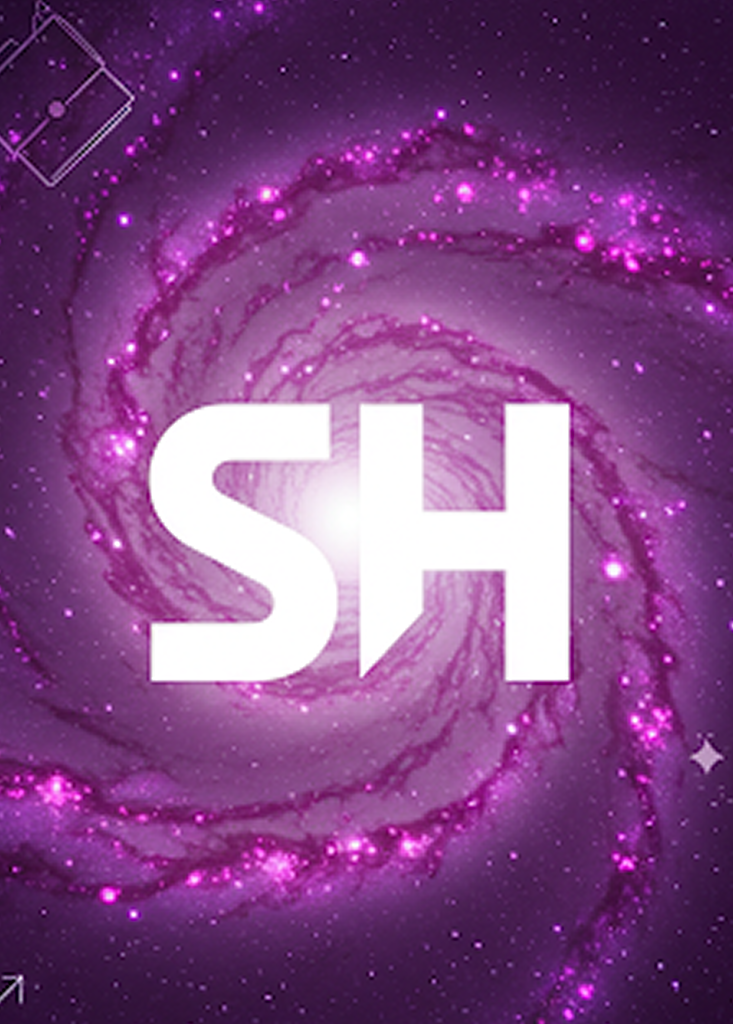
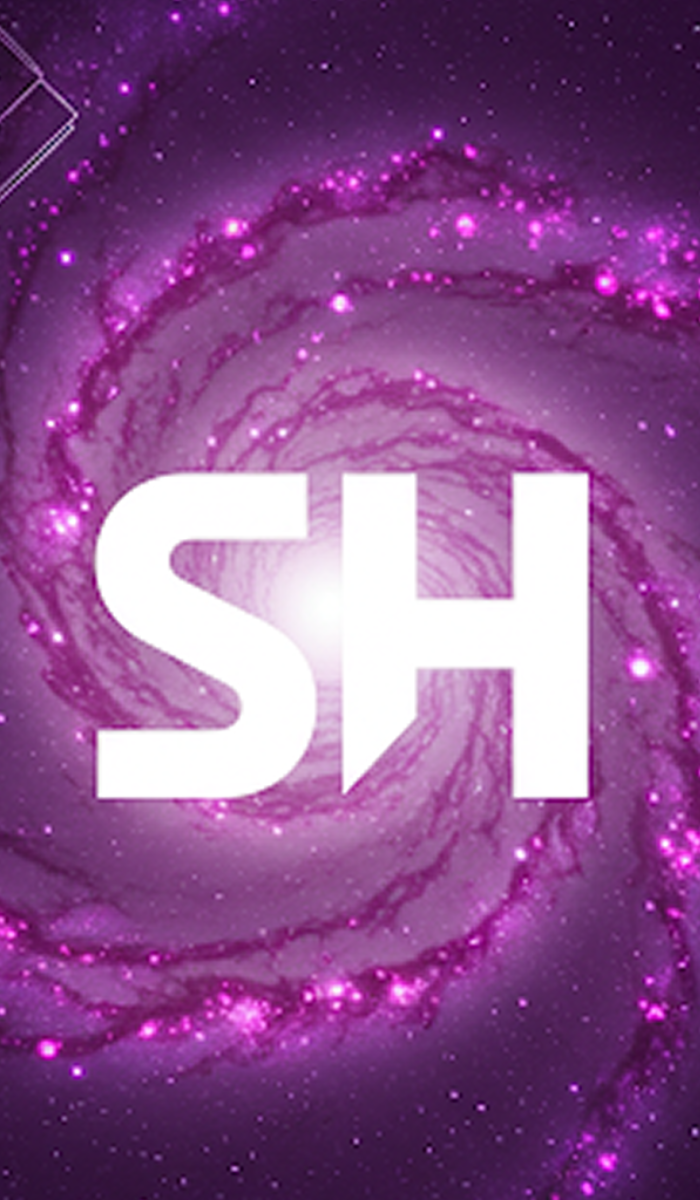
login

diff --git a/Códigos/style.css b/Códigos/style.css
@@ -10,8 +10,12 @@
 }
 body{
     width: 100%;
-    height: 90.3vh;
+    height: 100vh;
 }
 #fundo {
-    background: url(Assets/login-image.png) cover;
+    width: 100%;
+    height: 100%;
+    margin: 0;
+    background-image: url(Assets/login-image.png);
+    background-size: cover;
 }
